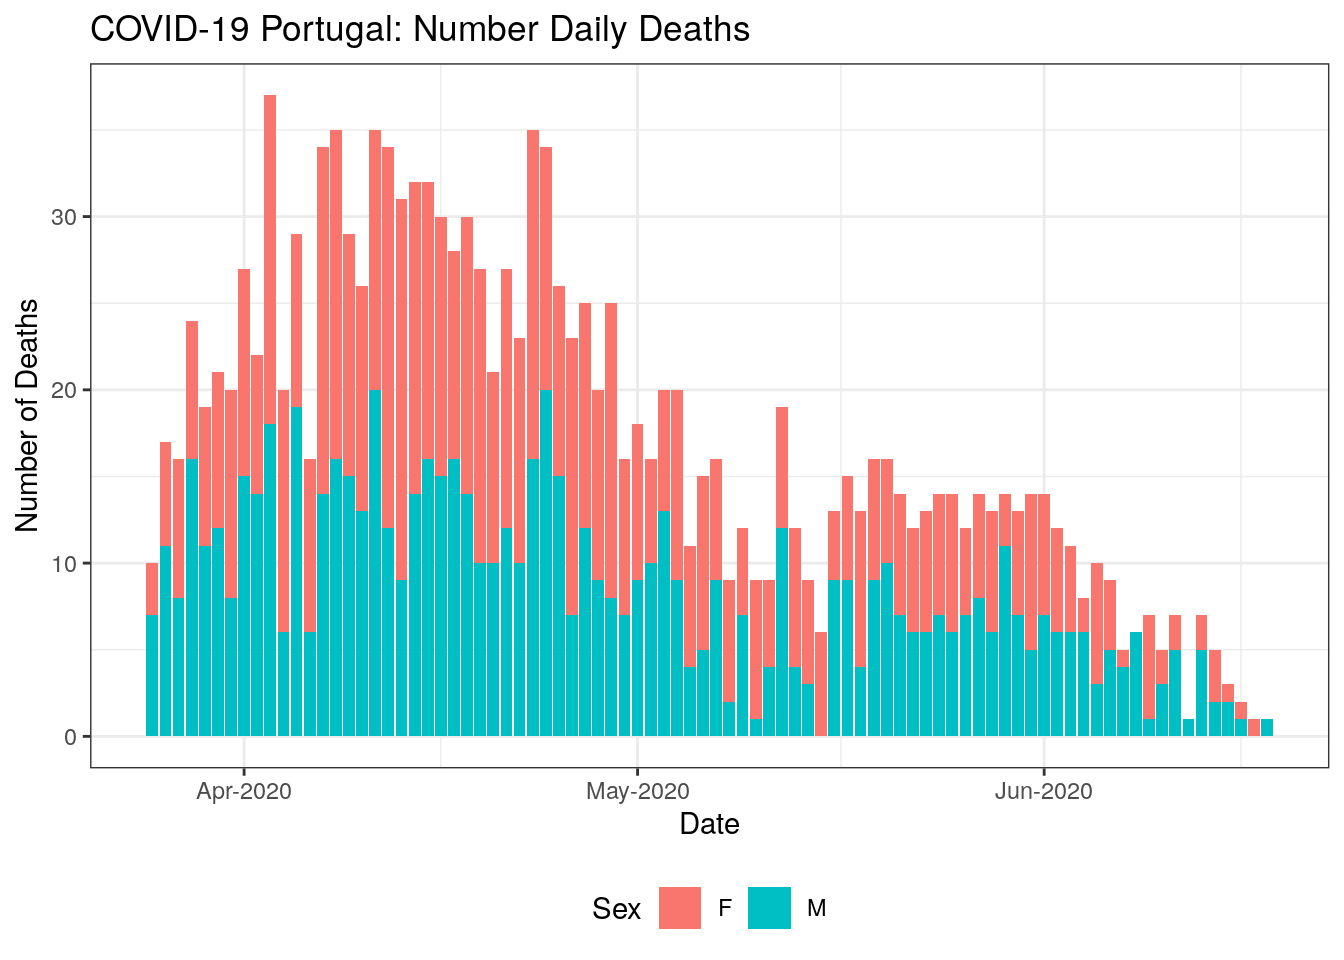
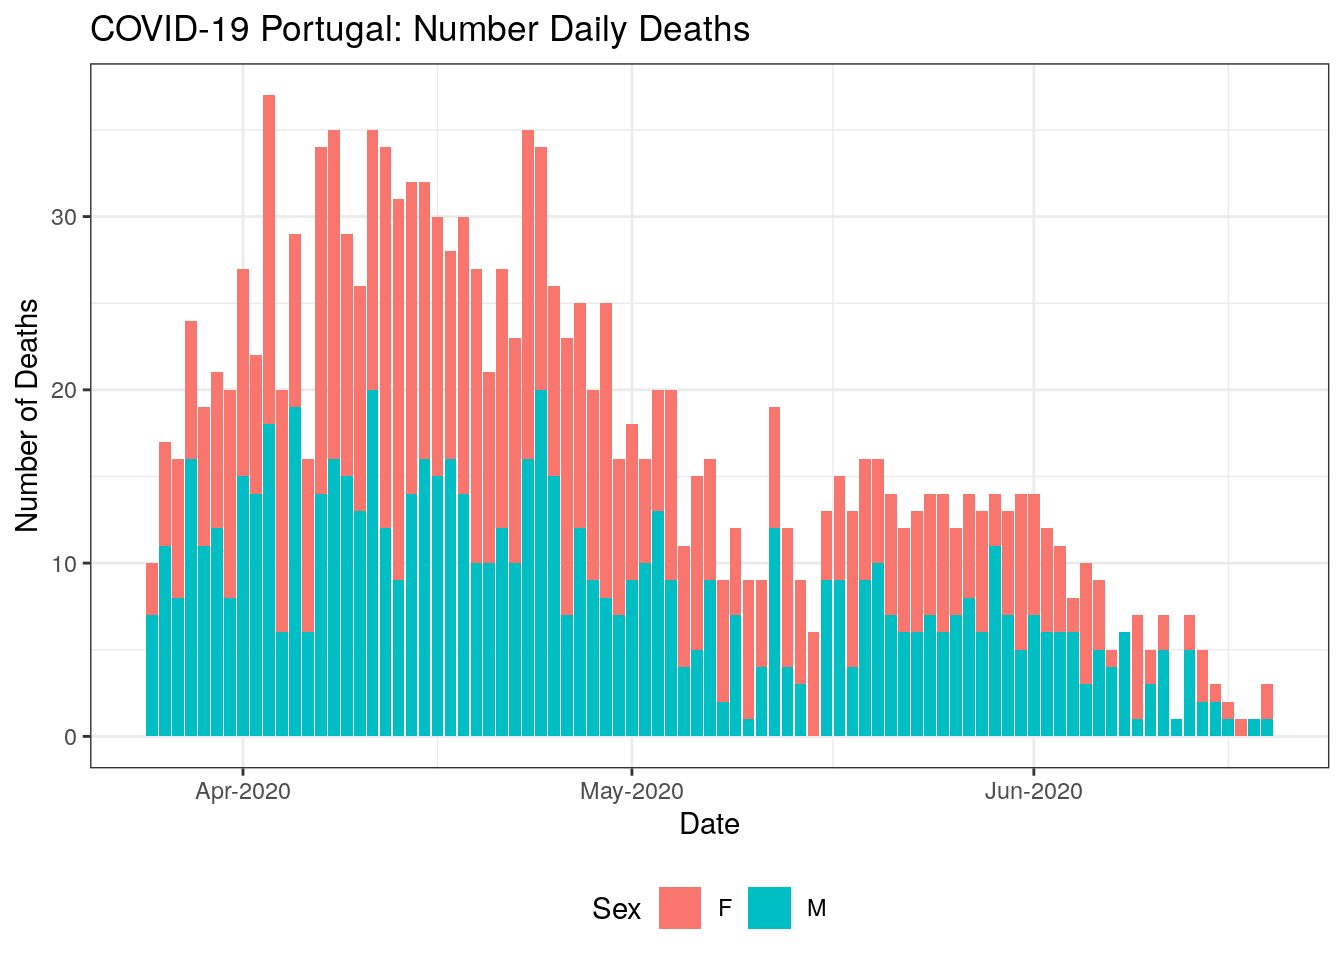
Updated to unclude new data.

diff --git a/README.md b/README.md
@@ -1,7 +1,7 @@
 
 # Portuguese COVID-19 Data
 
-**Last updated:** Fri 19 Jun 2020 (15:35:15 WEST (+0100))
+**Last updated:** Sat 20 Jun 2020 (10:24:35 WEST (+0100))
 
 ## Source
 
@@ -42,7 +42,7 @@ theme_set(theme_bw())
 # Read in data as a data.frame and data.table object.
 CV <- fread(here("data", "covid19pt_DSSG_Long.csv"))
 str(CV)
-## Classes 'data.table' and 'data.frame':   9576 obs. of  13 variables:
+## Classes 'data.table' and 'data.frame':   9660 obs. of  13 variables:
 ##  $ data       : chr  "2020-02-26" "2020-02-27" "2020-02-28" "2020-02-29" ...
 ##  $ data_dados : chr  "26-02-2020 00:00" "27-02-2020 00:00" "28-02-2020 00:00" "29-02-2020 00:00" ...
 ##  $ origVars   : chr  "cadeias_transmissao" "cadeias_transmissao" "cadeias_transmissao" "cadeias_transmissao" ...
@@ -100,7 +100,7 @@ CV[origType=="confirmados" & ageGrp=="" & region!="Portugal"] %>%
     y = "Number of Confirmed Cases",
     colour = "Region")
 ## Warning: Transformation introduced infinite values in continuous y-axis
-## Warning: Removed 98 row(s) containing missing values (geom_path).
+## Warning: Removed 99 row(s) containing missing values (geom_path).
 ```
 
 <img src="README_figs/README-casesbyRegion-1.png" width="672" />
@@ -119,9 +119,9 @@ CV[dayChange<0][
 ##   4: 2020-03-24 confirmados_40_49_f   224        -2
 ##   5: 2020-03-19 confirmados_60_69_f    35       -14
 ##  ---                                               
-## 265: 2020-05-31          vigilancia 27924      -259
-## 266: 2020-06-05          vigilancia 28088      -597
-## 267: 2020-06-08          vigilancia 28791      -521
-## 268: 2020-06-13          vigilancia 30655      -124
-## 269: 2020-06-17          vigilancia 30289      -521
+## 267: 2020-06-05          vigilancia 28088      -597
+## 268: 2020-06-08          vigilancia 28791      -521
+## 269: 2020-06-13          vigilancia 30655      -124
+## 270: 2020-06-17          vigilancia 30289      -521
+## 271: 2020-06-19          vigilancia 29046     -1380
 ```
